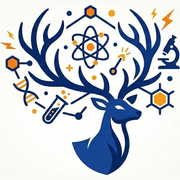
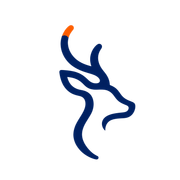
Replace site branding with the simplified KorKru deer mark

diff --git a/app/reset-password/page.tsx b/app/reset-password/page.tsx
@@ -5,6 +5,7 @@ import { AlertCircle } from 'lucide-react'
 import { ResetPasswordForm } from '@/components/auth/reset-password-form'
 import { Button } from '@/components/ui/button'
 import { Card } from '@/components/ui/card'
+import { BrandLogo } from '@/components/brand-logo'
 import { createClient } from '@/lib/supabase/server'
 
 export const metadata: Metadata = { title: 'ตั้งรหัสผ่านใหม่ — KorKru' }
@@ -16,13 +17,7 @@ export default async function ResetPasswordPage() {
   return (
     <div className="flex min-h-screen flex-col items-center justify-center bg-muted p-4">
       <Link href="/" className="mb-8 flex items-center gap-2.5">
-        <div className="flex h-10 w-10 items-center justify-center rounded-xl bg-primary text-base font-bold text-primary-foreground shadow-md">
-          K
-        </div>
-        <div>
-          <p className="text-lg font-bold leading-none text-foreground">KorKru</p>
-          <p className="text-xs text-muted-foreground">คลังข้อสอบอัจฉริยะ</p>
-        </div>
+        <BrandLogo subtitle="คลังข้อสอบอัจฉริยะ" />
       </Link>
 
       <Card padding="2xl" elevation="sm" className="w-full max-w-md">

diff --git a/components/brand-logo.tsx b/components/brand-logo.tsx
@@ -1,0 +1,39 @@
+import Image from 'next/image'
+import { cn } from '@/lib/utils'
+
+interface BrandLogoProps {
+  layout?: 'horizontal' | 'stacked'
+  subtitle?: string
+  className?: string
+}
+
+/** One mark and one spelling across the app, public pages and account screens. */
+export function BrandLogo({ layout = 'horizontal', subtitle, className }: BrandLogoProps) {
+  const stacked = layout === 'stacked'
+
+  return (
+    <span className={cn(
+      'inline-flex shrink-0 items-center',
+      stacked ? 'flex-col gap-0.5' : 'gap-2.5',
+      className,
+    )}>
+      <Image
+        src="/brand/deer-mark.png"
+        alt=""
+        width={1024}
+        height={1536}
+        sizes={stacked ? '24px' : '32px'}
+        className={cn(
+          'w-auto shrink-0 object-contain dark:brightness-0 dark:invert',
+          stacked ? 'h-7' : 'h-9',
+        )}
+      />
+      <span className={cn('flex flex-col', stacked && 'items-center')}>
+        <span className={cn('font-bold leading-none tracking-tight text-foreground', stacked ? 'text-sm' : 'text-lg')}>
+          KorKru
+        </span>
+        {subtitle && <span className="mt-1 text-xs text-muted-foreground">{subtitle}</span>}
+      </span>
+    </span>
+  )
+}

diff --git a/app/forgot-password/page.tsx b/app/forgot-password/page.tsx
@@ -2,6 +2,7 @@ import type { Metadata } from 'next'
 import Link from 'next/link'
 import { ForgotPasswordForm } from '@/components/auth/forgot-password-form'
 import { Card } from '@/components/ui/card'
+import { BrandLogo } from '@/components/brand-logo'
 
 export const metadata: Metadata = { title: 'ลืมรหัสผ่าน — KorKru' }
 
@@ -10,13 +11,7 @@ export default function ForgotPasswordPage() {
     <div className="flex min-h-screen flex-col items-center justify-center bg-muted p-4">
       {/* Logo mark */}
       <Link href="/" className="mb-8 flex items-center gap-2.5">
-        <div className="flex h-10 w-10 items-center justify-center rounded-xl bg-primary text-base font-bold text-primary-foreground shadow-md">
-          K
-        </div>
-        <div>
-          <p className="text-lg font-bold text-foreground leading-none">KorKru</p>
-          <p className="text-xs text-muted-foreground">คลังข้อสอบอัจฉริยะ</p>
-        </div>
+        <BrandLogo subtitle="คลังข้อสอบอัจฉริยะ" />
       </Link>
 
       <Card padding="2xl" elevation="sm" className="w-full max-w-md">

diff --git a/app/signup/page.tsx b/app/signup/page.tsx
@@ -2,6 +2,7 @@ import type { Metadata } from 'next'
 import Link from 'next/link'
 import { SignupForm } from '@/components/auth/signup-form'
 import { Card } from '@/components/ui/card'
+import { BrandLogo } from '@/components/brand-logo'
 
 export const metadata: Metadata = { title: 'สมัครสมาชิก — KorKru' }
 
@@ -10,13 +11,7 @@ export default function SignupPage() {
     <div className="flex min-h-screen flex-col items-center justify-center bg-muted p-4">
       {/* Logo mark */}
       <Link href="/" className="mb-8 flex items-center gap-2.5">
-        <div className="flex h-10 w-10 items-center justify-center rounded-xl bg-primary text-base font-bold text-primary-foreground shadow-md">
-          K
-        </div>
-        <div>
-          <p className="text-lg font-bold text-foreground leading-none">KorKru</p>
-          <p className="text-xs text-muted-foreground">คลังข้อสอบอัจฉริยะ</p>
-        </div>
+        <BrandLogo subtitle="คลังข้อสอบอัจฉริยะ" />
       </Link>
 
       <Card padding="2xl" elevation="sm" className="w-full max-w-lg">

diff --git a/app/login/page.tsx b/app/login/page.tsx
@@ -2,6 +2,7 @@ import type { Metadata } from 'next'
 import Link from 'next/link'
 import { LoginForm } from '@/components/auth/login-form'
 import { Card } from '@/components/ui/card'
+import { BrandLogo } from '@/components/brand-logo'
 
 export const metadata: Metadata = { title: 'เข้าสู่ระบบ — KorKru' }
 
@@ -10,13 +11,7 @@ export default function LoginPage() {
     <div className="flex min-h-screen flex-col items-center justify-center bg-muted p-4">
       {/* Logo mark */}
       <Link href="/" className="mb-8 flex items-center gap-2.5">
-        <div className="flex h-10 w-10 items-center justify-center rounded-xl bg-primary text-base font-bold text-primary-foreground shadow-md">
-          K
-        </div>
-        <div>
-          <p className="text-lg font-bold text-foreground leading-none">KorKru</p>
-          <p className="text-xs text-muted-foreground">คลังข้อสอบอัจฉริยะ</p>
-        </div>
+        <BrandLogo subtitle="คลังข้อสอบอัจฉริยะ" />
       </Link>
 
       <Card padding="2xl" elevation="sm" className="w-full max-w-md">

diff --git a/components/landing/landing-navbar.tsx b/components/landing/landing-navbar.tsx
@@ -7,6 +7,7 @@ import { useTheme } from 'next-themes'
 import { Moon, Sun, Menu, X } from 'lucide-react'
 import { cn } from '@/lib/utils'
 import { IconButton } from '@/components/ui/icon-button'
+import { BrandLogo } from '@/components/brand-logo'
 
 const NAV_LINKS: { href: string; label: string }[] = []
 
@@ -23,11 +24,8 @@ export function LandingNavbar() {
       <div className="mx-auto flex h-16 max-w-6xl items-center justify-between px-4">
         {/* Logo */}
         <Link href="/" className="flex items-center gap-2.5">
-          <div className="flex h-8 w-8 items-center justify-center rounded-lg bg-primary text-sm font-bold text-primary-foreground shadow-sm">
-            K
-          </div>
+          <BrandLogo />
           <div className="flex items-center gap-2">
-            <span className="text-base font-bold text-foreground">KorKru</span>
             <span className="rounded-full border border-warning/20 bg-warning/10 px-2 py-0.5 text-[10px] font-semibold text-warning dark:border-warning/60">
               Demo
             </span>

diff --git a/components/landing/landing-footer.tsx b/components/landing/landing-footer.tsx
@@ -1,4 +1,5 @@
 import Link from 'next/link'
+import { BrandLogo } from '@/components/brand-logo'
 
 export function LandingFooter() {
   return (
@@ -7,10 +8,7 @@ export function LandingFooter() {
         <div className="grid grid-cols-2 gap-8 sm:grid-cols-4">
           <div className="col-span-2 sm:col-span-1">
             <div className="flex items-center gap-2.5 mb-4">
-              <div className="flex h-8 w-8 items-center justify-center rounded-lg bg-primary text-sm font-bold text-primary-foreground">
-                K
-              </div>
-              <span className="font-bold text-foreground">KorKru</span>
+              <BrandLogo />
             </div>
             <p className="text-sm text-muted-foreground leading-relaxed">
               แพลตฟอร์มคลังข้อสอบอัจฉริยะ สำหรับครูและสถาบันการศึกษา สร้างโดยครู เพื่อครู

diff --git a/components/layout/topbar.tsx b/components/layout/topbar.tsx
@@ -2,7 +2,7 @@
 
 import { useEffect, useState } from 'react'
 import Link from 'next/link'
-import Image from 'next/image'
+import { BrandLogo } from '@/components/brand-logo'
 import { useTheme } from 'next-themes'
 import { Menu, Moon, Sun } from 'lucide-react'
 import { IconButton } from '@/components/ui/icon-button'
@@ -59,13 +59,7 @@ export function Topbar({ user, initialUnreadCount, onMenuToggle, sidebarCollapse
         </IconButton>
 
         <Link href="/dashboard" onClick={onLogoNavigate} title="KorKru · หน้าหลัก" className="shrink-0">
-          <Image
-            src="/logo.png"
-            alt="KorKru"
-            width={423}
-            height={576}
-            className="h-11 w-auto object-contain dark:brightness-0 dark:invert"
-          />
+          <BrandLogo layout="stacked" />
         </Link>
       </div>
 

diff --git a/docs/FEATURE_STATUS.md b/docs/FEATURE_STATUS.md
@@ -1,5 +1,9 @@
 # Feature status
 
+### โลโก้เว็บแบบกวางเรียบ (6 ตุลาคม 2026)
+
+- **UI-002** — ใช้ภาพกวางใหม่กับคำว่า `KorKru` ผ่าน `BrandLogo` ร่วมกันใน header, navbar/footer สาธารณะ และหน้าเข้าสู่ระบบ/สมัครสมาชิก/กู้รหัสผ่าน รวม favicon และไอคอนหน้าจอมือถือ; รูปโหมดมืดเป็นสีขาว โลโก้เต็มเดิมและไอคอนเดิมเก็บไว้ครบโดยตรวจ hash ตรงกับไฟล์เดิม มีภาพต้นฉบับจากผู้ใช้และพรอมต์ imagegen ใน `public/brand/` · ผ่าน TypeScript, token lint, webpack production build และ Chrome QA บนเมนู shell จำลอง หน้า login และหน้าสาธารณะที่ 320–390px รวมแสงสว่าง/มืด ไม่มี horizontal overflow และรูปโหลดจริงผ่านขนาด responsive; ไม่มีการเปลี่ยน auth หรือข้อมูล และไม่มี migration
+
 ### ปรับเงื่อนไขจบงานและการทำซ้ำ (5 ตุลาคม 2026)
 
 - **UI-003: สลับกรอบตั้งค่า** (6 ต.ค. 2026) — กรอบ “จำนวนข้อต่อหนึ่งหน้า” อยู่ก่อน “เงื่อนไขจบงาน” ทั้งหน้าสร้างและแก้ไขงาน; หน้าแก้ไขแยกกรอบจำนวนข้อออกจากกำหนดการ ส่วน field bindings, ค่าเดิม, เงื่อนไขซ่อนช่องเมื่อใช้ streak และช่องกำหนดการไม่เปลี่ยน ผ่าน TypeScript, token lint, webpack production build และ local Chrome QA บน 1200px/320–390px ครบทำครบแล้วจบ/ต้องผ่านเกณฑ์/ถูกติดกันจึงจบ; หน้าแก้ไขตรวจด้วย fixture ชั่วคราวที่ปิด submit และถอดออกก่อนส่งงาน ไม่เรียก Server Action หรือใช้ข้อมูลจริง ยังไม่ได้ตรวจเส้นทางด้วยบัญชีจริง ไม่มี migration

diff --git a/public/brand/README.md b/public/brand/README.md
@@ -1,0 +1,14 @@
+# KorKru brand assets
+
+Approved by the product owner on 6 October 2026 (UI-002).
+
+- `deer-mark-source.png`: exact original image supplied by the owner; retained unchanged.
+- `deer-mark.png`: transparent cutout prepared with the built-in imagegen tool.
+- `legacy-icon.png` and `legacy-apple-icon.png`: unchanged copies of the previous browser and home-screen icons.
+- The previous full logo remains unchanged at `public/logo.png`; retain it for future use.
+- `components/brand-logo.tsx` uses the new mark with the exact wordmark `KorKru` (both K letters uppercase). Light mode retains navy/orange. Dark mode renders the mark white and the wordmark in the theme foreground.
+- `node scripts/build-brand-icons.mjs` resizes the approved mark into `app/icon.png` and `app/apple-icon.png` on a white square so it remains legible in browser and OS chrome. It does not change the source mark.
+
+## Final imagegen prompt
+
+Extract the EXACT original deer logo into a PNG with true alpha transparency. This is a strict graphic cleanup, not creative generation. The original mark is a SOLID FLAT two-color graphic: navy blue deer shape, orange antler tip. Keep every curve and proportion identical to the source. Output solid opaque navy and orange inside the mark; all background including holes in the ear and between antlers must be 100% transparent with alpha zero. Absolutely NO glow, NO aura, NO gradients, NO smoke, NO soft shadows, NO colored halos, NO shading. The logo must have clean sharp hard boundaries with only normal one-pixel edge antialiasing. The transparent canvas must be closely cropped around the original shape. No text, no watermark. Preserve the original, do not invent a new deer.

diff --git a/docs/DESIGN_SYSTEM.md b/docs/DESIGN_SYSTEM.md
@@ -6,6 +6,7 @@
 
 - ชื่อหลัก: **ก่อครู**
 - English mark: **KorKru**
+- โลโก้หลักใช้รูปกวางเรียบจากภาพที่เจ้าของผลิตภัณฑ์ส่ง 6 ตุลาคม 2026 ผ่าน `components/brand-logo.tsx` ร่วมกันทั้ง header หน้าเว็บสาธารณะและหน้าบัญชี คำว่า `KorKru` ใช้ K ใหญ่ทั้งสองตัว ส่วนตัวอื่นเล็ก; โหมดสว่างใช้รูปกรมท่า/ส้ม โหมดมืดใช้รูปสีขาว ชื่อใช้ foreground ของธีม เก็บโลโก้เต็มเดิมที่ `public/logo.png` และไอคอนเดิมที่ `public/brand/legacy-*.png` ไว้ ไม่ลบหรือเขียนทับ
 - แนวคิดภาษา: **“ก่อ…โดยครู”**
 
 คำตรงกลางเป็นข้อความที่เปลี่ยนได้ตามบริบท ไม่ใช่คำที่หายหรือ error state ตัวอย่างเช่น “ก่อข้อสอบโดยครู” บนหน้าสร้างข้อสอบ และ “ก่อห้องเรียนโดยครู” บนหน้าห้องเรียน
